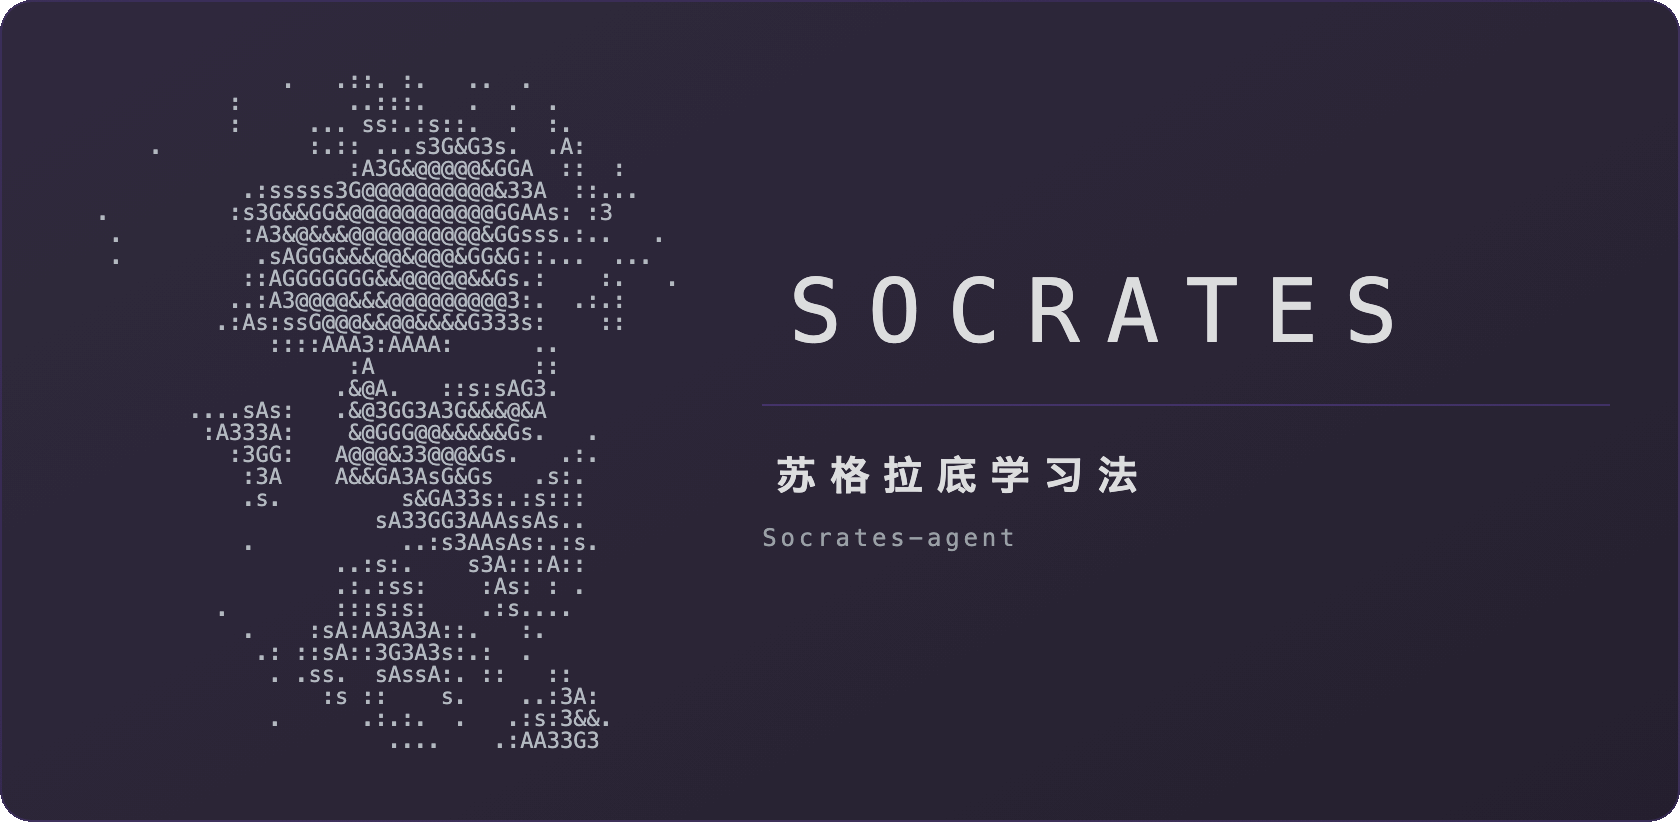
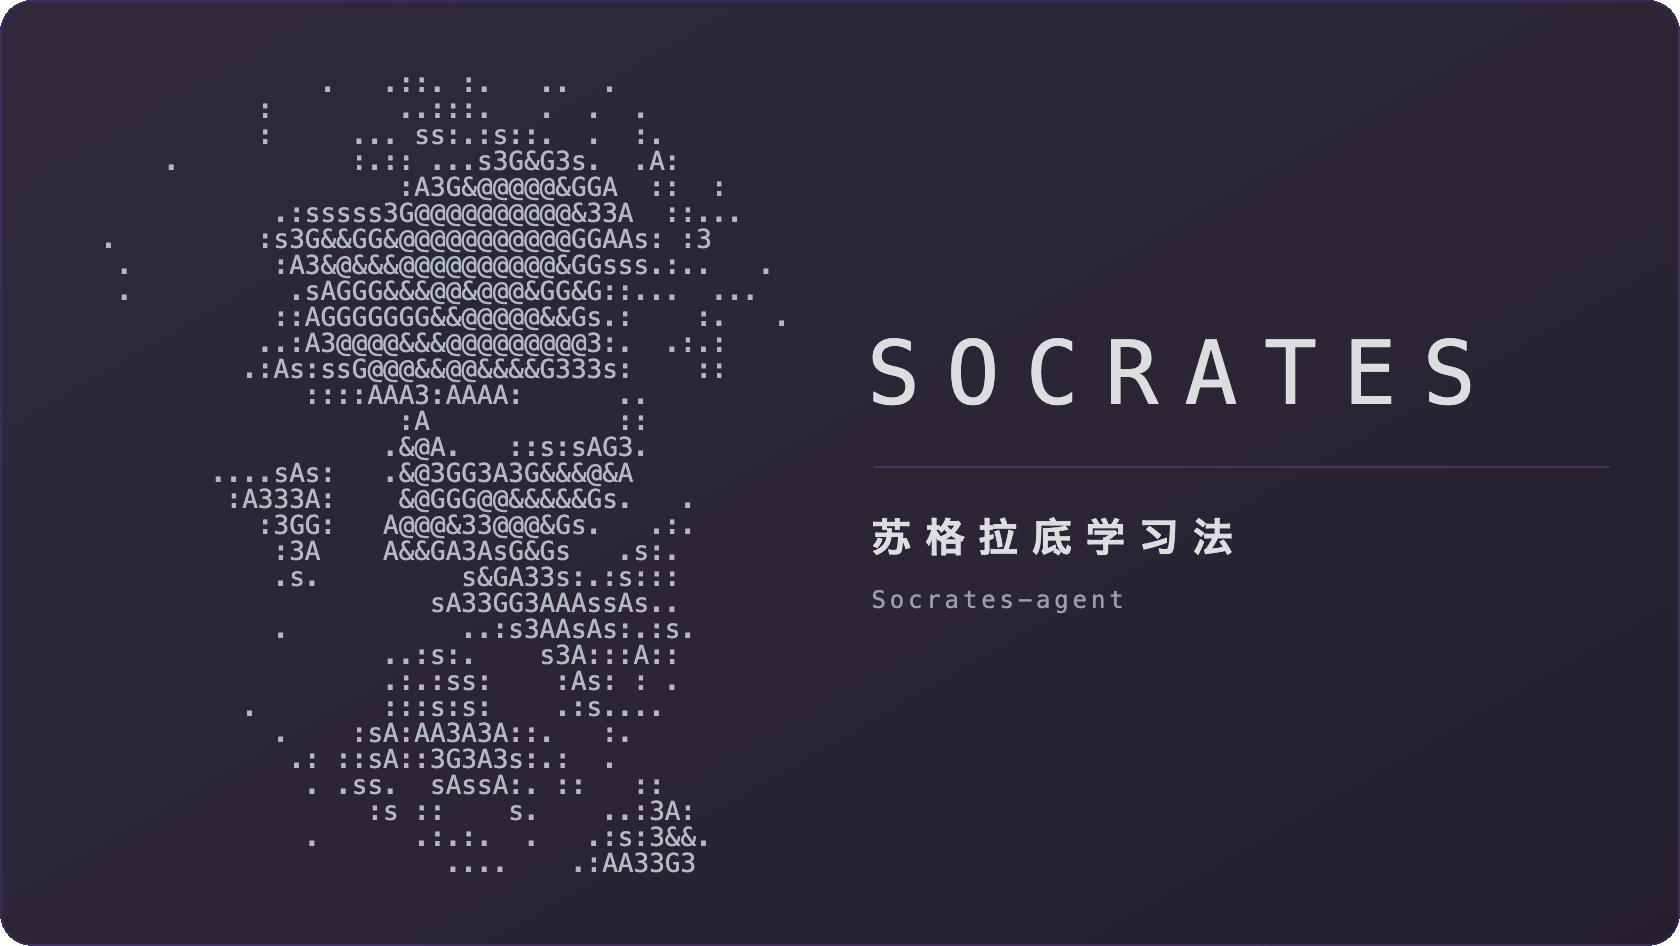
docs(v0.16.7): Hero 右栏三行对齐，卡片长高 15%
一、三行没对齐。病根是从插件那边照搬了 text-indent：styles.css:613-633 那条
是**居中**布局用来抵消末字后多出一格字距的，hero 右栏是左对齐，同一条到这儿
只剩把首字往右推一个作用，而且推的量各不相同——#wordtext 0.30em×44px=13.2，
#tag 0.34em×20px=6.8，#sub 没写 indent=0。从 v0.16.6 成图里量出来正好是
+16.0 / +8.0 / +1.0 CSS px 的阶梯。横排模板里两条 indent 删掉；TEMPLATE_COL
是居中，保留不动。

去掉 indent 只对齐了排版原点，墨迹还差字形自带的左侧边距。新增 ALIGN_JS，
页内用 canvas measureText().actualBoundingBoxLeft 量出每行首字的真实墨迹起点
(wordtext +2.99 / tag +0.98 / sub +0.81)，用等量负边距拉回栏左缘。目标选
#rule 的左端——分隔线横跨整栏，是这一栏的视觉左边界，于是四条左缘同线。

新增 check_align()：出图后回头读**最终 PNG 的像素**，扫每行墨迹左缘，差过
1 设备像素就告警。中英两张都是 +0.0 / +0.0 / +0.0。它同时管越界：英文标语
在收窄后的右栏里只剩 20.0 CSS px 余量，所以三行一并加 white-space:nowrap ——
宁可溢出被截掉（看得见的失败），也不要静默折行把纵向层级搞塌。

二、肖像 11px → 13px，卡片 840×411 → 840×473（+15.09%），肖像
304.64×341 → 360.03×403，PNG 1680×946。宽度不动，右栏因此从 423.84 收到
368.5；SOCRATES 仍 44px，占 86%（原 75%），离内缘还剩 70.5px。

顺手修掉一条印了三版的假数字：日志里那个 SOCRATES(文字) @88.004px 是 ASCII
字标档反算的字号，真文字档根本不走 fw，#wordtext 一直是 44px。字号提成常量
WORDTEXT_PX，日志改印 @44px，和 CSS 同源。

底色一个像素没动（最亮端仍 #2F283D，对参考色 Δ1.4）。两份 README 未改。
实测：81.5/99.2 KB、各连跑两次 md5 一致、肖像 7.70:1、右栏 11.88:1、四角 alpha 0。

diff --git a/docs/v0.16.7-Hero对齐与放大.md b/docs/v0.16.7-Hero对齐与放大.md
@@ -1,0 +1,94 @@
+# v0.16.7 — Hero 右栏三行对齐，卡片长高 15%
+
+> 日期：2026-08-22。只动 `scripts/render-hero.py` 和 `docs/img/hero*.png`。
+> `src/` `pen/` `styles.css` `manifest.json` `versions.json` 一行不动，不发 Release。
+> 插件 semver 仍是 `0.13.1`。两份 README 一个字没改（`width="840"` 没变，
+> `alt` 描述的内容也没变）。接上一版 [v0.16.6](v0.16.6-Hero改成参考紫.md)。
+
+## 一 · 三行没对齐
+
+读者指出 `SOCRATES` 的 S、标语的「苏」、副题的 S 三个字头不在一条竖线上。
+从 v0.16.6 那张成图里量（设备像素，2×；右栏左缘在 x=762）：
+
+| 行 | 墨迹左缘 | 相对栏左缘 |
+| --- | ---: | ---: |
+| `SOCRATES` | 794 | **+16.0 CSS px** |
+| `苏格拉底学习法` | 778 | **+8.0 CSS px** |
+| `Socrates-agent` | 764 | **+1.0 CSS px** |
+
+**病根是从插件那边照搬了 `text-indent`。** `styles.css:613-633` 的
+`.sp-splash-tag` 写着 `text-indent: 0.34em`，那一条是**居中**布局用来抵消末字后
+多出的一格字距的——插件那张启动卡是竖排居中。hero 的右栏是**左对齐**，同一条
+`text-indent` 到这儿只剩一个作用：把首字往右推。推的量还各不相同：
+
+- `#wordtext` `text-indent: 0.30em` × 44px = **13.2px**
+- `#tag` `text-indent: 0.34em` × 20px = **6.8px**
+- `#sub` 压根没写 indent = **0**
+
+三行于是站成一道阶梯。横排模板里这两条 indent 全部删掉；`TEMPLATE_COL`（竖排、
+居中）里的保留不动，那里它是对的。
+
+### 去掉 indent 还差最后一步：字形左边承
+
+排版原点对齐了，墨迹仍不对齐——每个字形自带左侧边距（left side bearing），
+字号越大差得越多。所以新增 `ALIGN_JS`：在页内用 canvas 的
+`measureText().actualBoundingBoxLeft` 量出每行首字的真实墨迹起点，再用等量负边距
+把它拉回栏左缘。实测这三个值（出图时会打印）：
+
+```
+wordtext +2.99px   tag +0.98px（英文版 +0.88px）   sub +0.81px
+```
+
+拉回的目标选的是 `#rule` 的左端——分隔线横跨整栏，是这一栏视觉上的左边界。
+于是字标、标语、副题、分隔线**四条**左缘落在同一根竖线上。
+
+### 拿成图证明，不拿渲染器的说法证明
+
+新增 `check_align()`：出图之后回头读**最终 PNG 的像素**，扫出右栏每行文字的墨迹
+左缘，三行互相差超过 1 个设备像素就告警。中英两张都是：
+
+```
+右栏 3 行文字的墨迹左缘（相对栏左缘，CSS px）：+0.0  +0.0  +0.0
+```
+
+这条检查同时兼管越界：英文标语 `The Socratic Method` 在收窄后的右栏里
+**只剩 20.0 CSS px 余量**。所以 `#tag` / `#sub` / `#wordtext` 一并加了
+`white-space: nowrap`——宁可让它溢出边框被截图截掉（一眼看得见的失败），
+也不要静默折行把右栏的纵向层级悄悄搞塌。`check_align()` 会把余量打出来，
+逼近内缘就告警。
+
+## 二 · 卡片长高 15%
+
+肖像字号 `11px → 13px`（`PORTRAITS` 的默认值）：
+
+| | 之前 | 现在 |
+| --- | --- | --- |
+| 卡片 | 840 × 411 | 840 × **473**（+15.09%） |
+| 肖像 | 304.64 × 341 | **360.03 × 403** |
+| PNG | 1680 × 822 | 1680 × **946** |
+| 右栏可用宽 | 423.84 | 368.5 |
+
+卡片高 = `1 + 34 + 31×fp + 34 + 1`，fp=13 正好 473。**宽度不动**，所以肖像变宽
+就等量吃掉右栏：右栏从 423.84 收到 368.5。`SOCRATES` 仍是 44px，在新右栏里占
+86%（原来 75%），离卡片内缘还剩 70.5 CSS px，不挤。
+
+顺手把写死在模板里的 44px 提成常量 `WORDTEXT_PX`，并修掉一条**印了三版的假数字**：
+之前那行日志印的 `SOCRATES(文字) @88.004px` 是 ASCII 字标那一档反算出来的字号，
+而真文字档根本不走 `fw`，`#wordtext` 一直是 44px。现在印
+`SOCRATES(真文字) @44px`，和 CSS 同源。
+
+`PORTRAIT_WIDE` 仍不可用：同一条 473px 的高度下它的 51 行只能给到
+`403/51 = 7.9px`，照旧糊成灰泥。narrow 那幅仍是唯一解。
+
+## 验证（全部实跑）
+
+| 项 | 中文版 | 英文版 |
+| --- | --- | --- |
+| 三行墨迹左缘 | `+0.0 / +0.0 / +0.0` | `+0.0 / +0.0 / +0.0` |
+| 最长一行距卡片内缘 | 70.5 CSS px | 20.0 CSS px |
+| 尺寸 | 1680×946 = 840×473 的整 2 倍 | 同 |
+| 体积 | 81.5 KB | 99.2 KB（预算 ≤ 120 KB） |
+| 可复现 | 连跑两次 md5 一致 `f766b327…` | `610f0daa…` |
+| 底色 | 最亮端 `#2F283D`，对参考色 Δ1.4 —— 与 v0.16.6 一致，没动 | 同 |
+| 对比度 | 肖像 7.70:1、右栏 11.88:1 | 同 |
+| 圆角 | 四角 `alpha == 0` | 同 |
